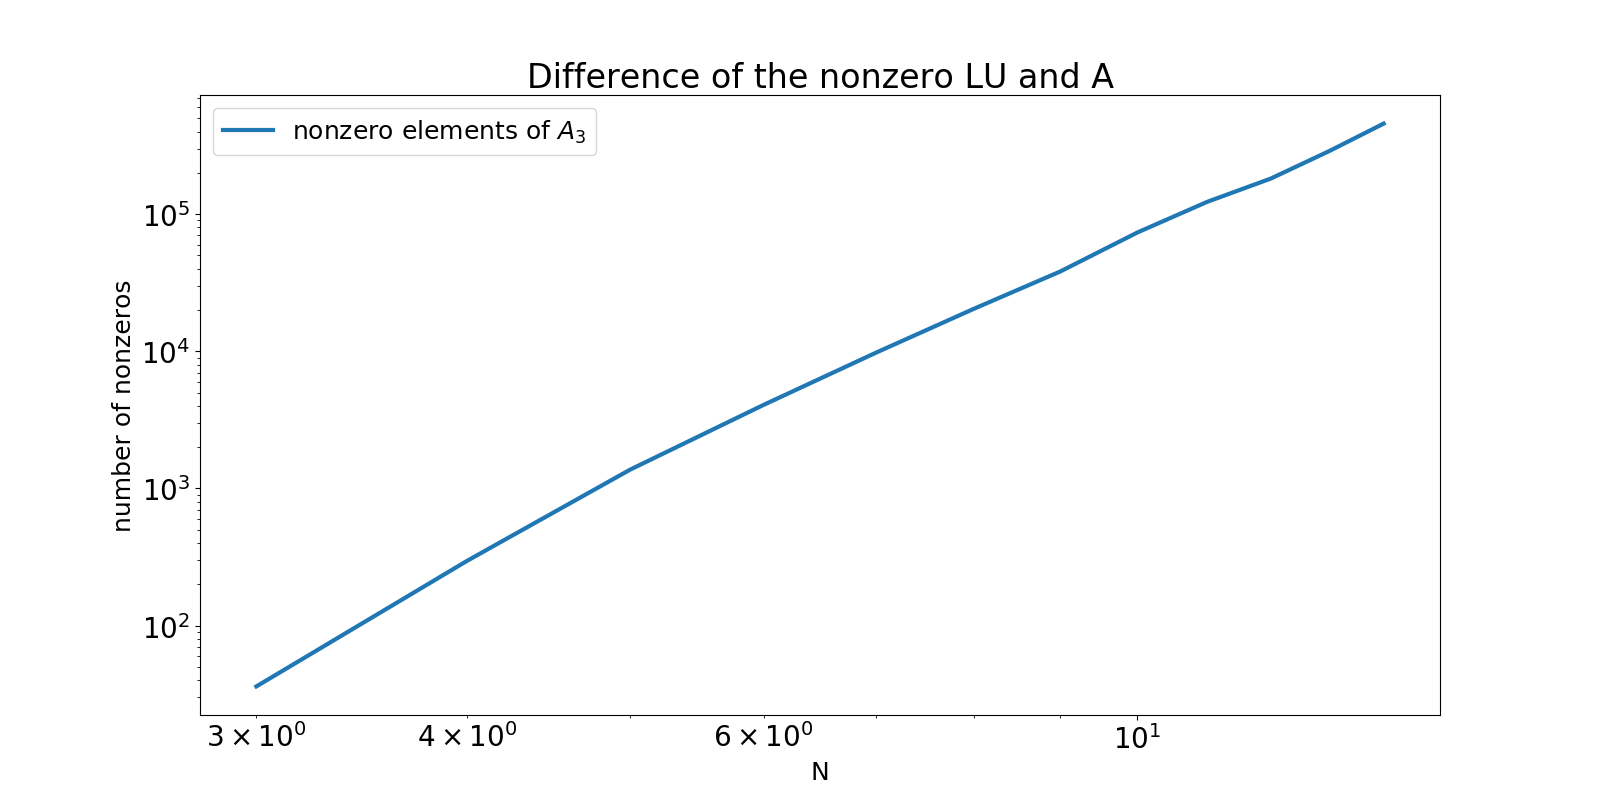
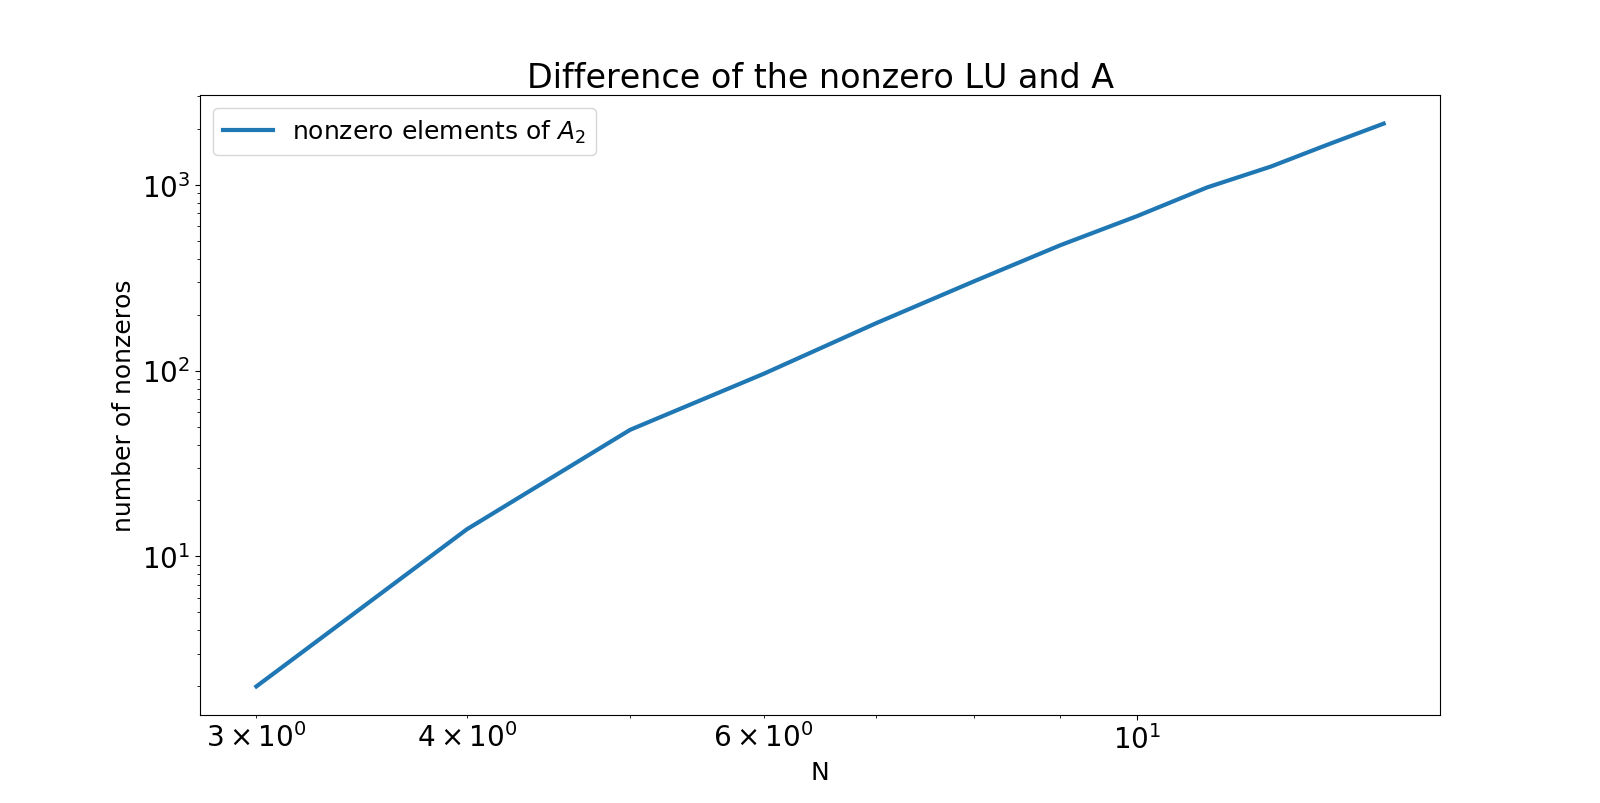
Forgot to push

diff --git a/third_base/protocol.py b/third_base/protocol.py
@@ -1,17 +1,19 @@
+""" This module demonstrates the experiments used in the protocol.
+"""
 import numpy as np
 
 import matplotlib.pyplot as plt
 import matplotlib
-matplotlib.use('TkAgg')
-from mpl_toolkits.mplot3d import Axes3D
-
-matplotlib.rc('xtick', labelsize=20)     
-matplotlib.rc('ytick', labelsize=20)
+# from mpl_toolkits.mplot3d import Axes3D
 
 import block_matrix
 import linear_solvers
 import rhs
-import functions
+# import functions
+
+matplotlib.use('TkAgg')
+matplotlib.rc('xtick', labelsize=20)
+matplotlib.rc('ytick', labelsize=20)
 
 def u(v, k=5):
     """ Example function with k = 5.0.
@@ -49,19 +51,23 @@ def f(v, k=5):
         return k * np.pi * (k * np.pi * v[0] * np.sin(k * np. pi * v[0]) - 2 * np.cos(k * np.pi * v[0]))
 
     elif len(v) == 2:
-        sum1 = k * np.pi * v[1] * np.sin(k * np.pi * v[1]) * (k * np.pi * v[0] * np.sin(k * np.pi * v[0]) - 2 * np.cos(k * np.pi * v[0]))
-        sum2 = k * np.pi * v[0] * np.sin(k * np.pi * v[0]) * (k * np.pi * v[1] * np.sin(k * np.pi * v[1]) - 2 * np.cos(k * np.pi * v[1]))
+        x1, x2 = v[0], v[1]
+        kpi = k * np.pi
+
+        sum1 = kpi * x2 * np.sin(kpi * x2) * (kpi * x1 * np.sin(kpi * x1) - 2 * np.cos(kpi * x1))
+        sum2 = kpi * x1 * np.sin(kpi * x1) * (kpi * x2 * np.sin(kpi * x2) - 2 * np.cos(kpi * x2))
         return sum1 + sum2
 
     elif len(v) == 3:
         x1, x2, x3 = v[0], v[1], v[2]
         kpi = k * np.pi
 
-        sum1 = kpi * x2 * x3 * np.sin(kpi * x2) * np.sin(kpi * x3) * (2 * np.cos(kpi * x1) - kpi * x1 * np.sin(kpi * x1))
-        sum2 = kpi * x1 * x3 * np.sin(kpi * x1) * np.sin(kpi * x3) * (2 * np.cos(kpi * x2) - kpi * x2 * np.sin(kpi * x2))
-        sum3 = kpi * x1 * x2 * np.sin(kpi * x1) * np.sin(kpi * x2) * (2 * np.cos(kpi * x3) - kpi * x3 * np.sin(kpi * x3))
+        s1 = kpi * x2 * x3 * np.sin(kpi * x2) * np.sin(kpi * x3) * (2 * np.cos(kpi * x1) - kpi * x1 * np.sin(kpi * x1))
+        s2 = kpi * x1 * x3 * np.sin(kpi * x1) * np.sin(kpi * x3) * (2 * np.cos(kpi * x2) - kpi * x2 * np.sin(kpi * x2))
+        s3 = kpi * x1 * x2 * np.sin(kpi * x1) * np.sin(kpi * x2) * (2 * np.cos(kpi * x3) - kpi * x3 * np.sin(kpi * x3))
 
-        return -(sum1 + sum2 + sum3)
+        return -(s1 + s2 + s3)
+    return 0.0
 
 def plot_analytical_3d(N):
     """ This function draws the analytic solution for the poissons equation for d = 2.
@@ -72,7 +78,7 @@ def plot_analytical_3d(N):
     """
     # create data
     grid = np.linspace(0.0, 1.0, N + 1, endpoint=True)
-    grid_length = len(grid)
+    # grid_length = len(grid)
     x_grid, y_grid = np.meshgrid(grid, grid)
 
     print("x_grid:\n{}\ny_grid:\n{}".format(x_grid, y_grid))
@@ -108,7 +114,7 @@ def plot_approximation_3d(N):
         The number of grid points.
     """
     grid = np.linspace(0.0, 1.0, N + 1, endpoint=True)
-    grid_length = len(grid)
+    # grid_length = len(grid)
     x_grid, y_grid = np.meshgrid(grid, grid)
 
     b = linear_solvers.solve_lu(*block_matrix.BlockMatrix(2, N).get_lu(), rhs.rhs(2, N, f))
@@ -141,10 +147,10 @@ def main():
     """ The main function which reproduces the results of the protocol.
     """
     max_n = 15 # the following plots are drawn for upto this number
-    
-    # rhs.draw_error(max_n)
-    # block_matrix.draw_cond(max_n)
-    # rhs.draw_hilbert_cond(max_n)
+
+    rhs.draw_error(max_n)
+    block_matrix.draw_cond(max_n)
+    rhs.draw_hilbert_cond(max_n)
     block_matrix.draw_nonzero(max_n)
 
     # change the number in parentheses to change the number of grid points

diff --git a/third_base/protocol.tex b/third_base/protocol.tex
@@ -183,15 +183,15 @@ Figure \ref{fig:plots} illustrates this point. Here, we have plotted the analyti
 
 The sparsity structure of \(A^{(d)}\) is important because it allows us to save precious memory which in turn allows for larger computation. In this section, we want to compare the number of nonzero entries of \(A^{(d)}\) and its LU-decomposition. See figure \ref{fig:boat1} for the resulting plot.
 
-With increasing size of \(A^{(d)}\) the amount of nonzero entries increases as well, and the LU-decomposition further adds more nonzeros to the problem. Interestingly, however, if \(d = 1\), then the LU-decomposition seemingly does not add more memory usage. This means if we are solving the Poisson's equation for the first dimension, then the memory used for the matrix \(L\) and \(U\) are roughly the same.
+With increasing size of \(A^{(d)}\) the amount of nonzero entries increases as well, and the LU-decomposition further adds more nonzeros to the problem. Interestingly, however, if \(d = 1\), then the LU-decomposition seemingly does not add more memory usage. This means if we are solving the Poisson's equation for the first dimension, then the memory used for the matrix \(L\) and \(U\) are roughly the same as \(A^{d}\).
 
 \begin{wrapfigure}{hr}{0.47\textwidth}
-	\includegraphics[width=0.45\textwidth]{graphics/hilbert_condition.png}
+	\includegraphics[width=0.45\textwidth]{graphics/line.png}
 	\caption{Difference of nonzero elements of LU and A for d = 2}
 	\label{fig:Line}
 \end{wrapfigure}
 
-When we plot the difference between the nonzero number of LU and A (see figure \ref{fig:Line}), the resulting graph is a straight line. Since we used double log scale, this means that the growth of memory usage for LU is quadratic.
+When we plot the difference between the nonzero number of LU and A (see figure \ref{fig:Line}), the resulting graph resembles a straight line. Since we used double log scale, this probably means that the growth is quadratic.
 
 \section{Conclusion}
 

diff --git a/third_base/block_matrix.py b/third_base/block_matrix.py
@@ -15,7 +15,7 @@ import matplotlib
 matplotlib.use('TkAgg')
 import matplotlib.pyplot as plt # pylint: disable=wrong-import-position
 
-matplotlib.rc('xtick', labelsize=20)     
+matplotlib.rc('xtick', labelsize=20)
 matplotlib.rc('ytick', labelsize=20)
 
 def construct(d, n):
@@ -218,8 +218,8 @@ def draw_cond(max_n=15):
     # get the values for the plot
     for d in [1, 2, 3]:
         plt.loglog([x for x in range(2, max_n)],
-                 [BlockMatrix(d, x).get_cond() for x in range(2, max_n)],
-                 label="cond" + "$(A_" + str(d) + ")$", linewidth=3)
+                   [BlockMatrix(d, x).get_cond() for x in range(2, max_n)],
+                   label="cond" + "$(A_" + str(d) + ")$", linewidth=3)
 
     # finilize
     plt.xlabel('$N$', fontsize=18)
@@ -256,12 +256,12 @@ def draw_nonzero(max_n=15):
     plt.show()
 
     a0 = [BlockMatrix(2, x).eval_zeros()[0] for x in range(3, max_n)]
-    lu = [BlockMatrix(d, x).eval_zeros_lu()[0] for x in range(3, max_n)]
+    lu = [BlockMatrix(2, x).eval_zeros_lu()[0] for x in range(3, max_n)]
 
     # -----
     plt.loglog([x for x in range(3, max_n)], [b - a for (a, b) in zip(a0, lu)],
-             label="nonzero elements of " + "$A_" + str(d) + "$",
-             linewidth=3)
+               label="nonzero elements of " + "$A_" + str(2) + "$",
+               linewidth=3)
 
     plt.xlabel('N', fontsize=18)
     plt.ylabel('number of nonzeros', fontsize=18)

diff --git a/third_base/rhs.py b/third_base/rhs.py
@@ -121,7 +121,7 @@ def draw_hilbert_cond(max_n=15):
         condition.append(np.linalg.cond(hilbert(i), np.inf))
 
     plt.loglog(range(3, max_n), [np.linalg.cond(hilbert(i), np.inf) for i in range(3, max_n)],
-             label="Condition of the Hilbert Matrix", linewidth=3)
+               label="Condition of the Hilbert Matrix", linewidth=3)
     axis = plt.gca()
     axis.set_yscale('log')
 
